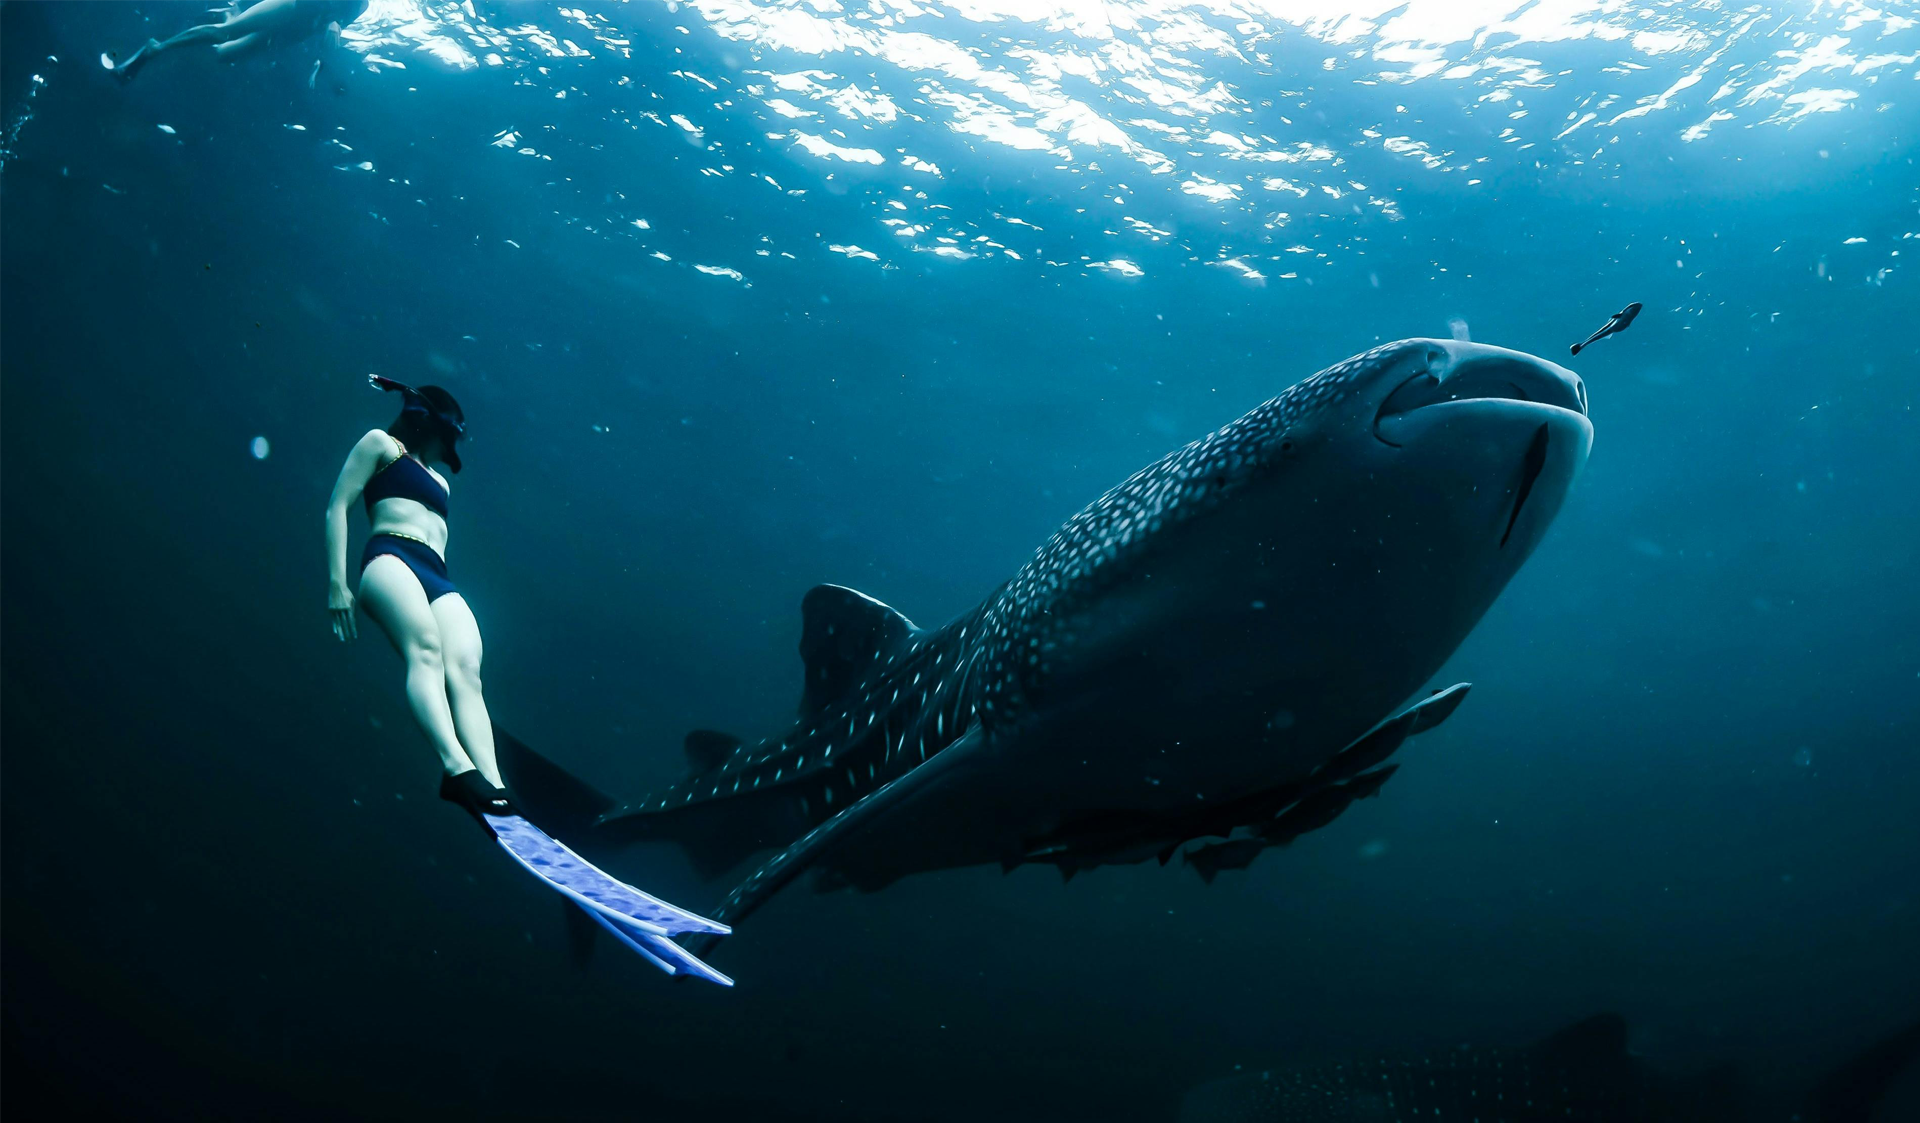
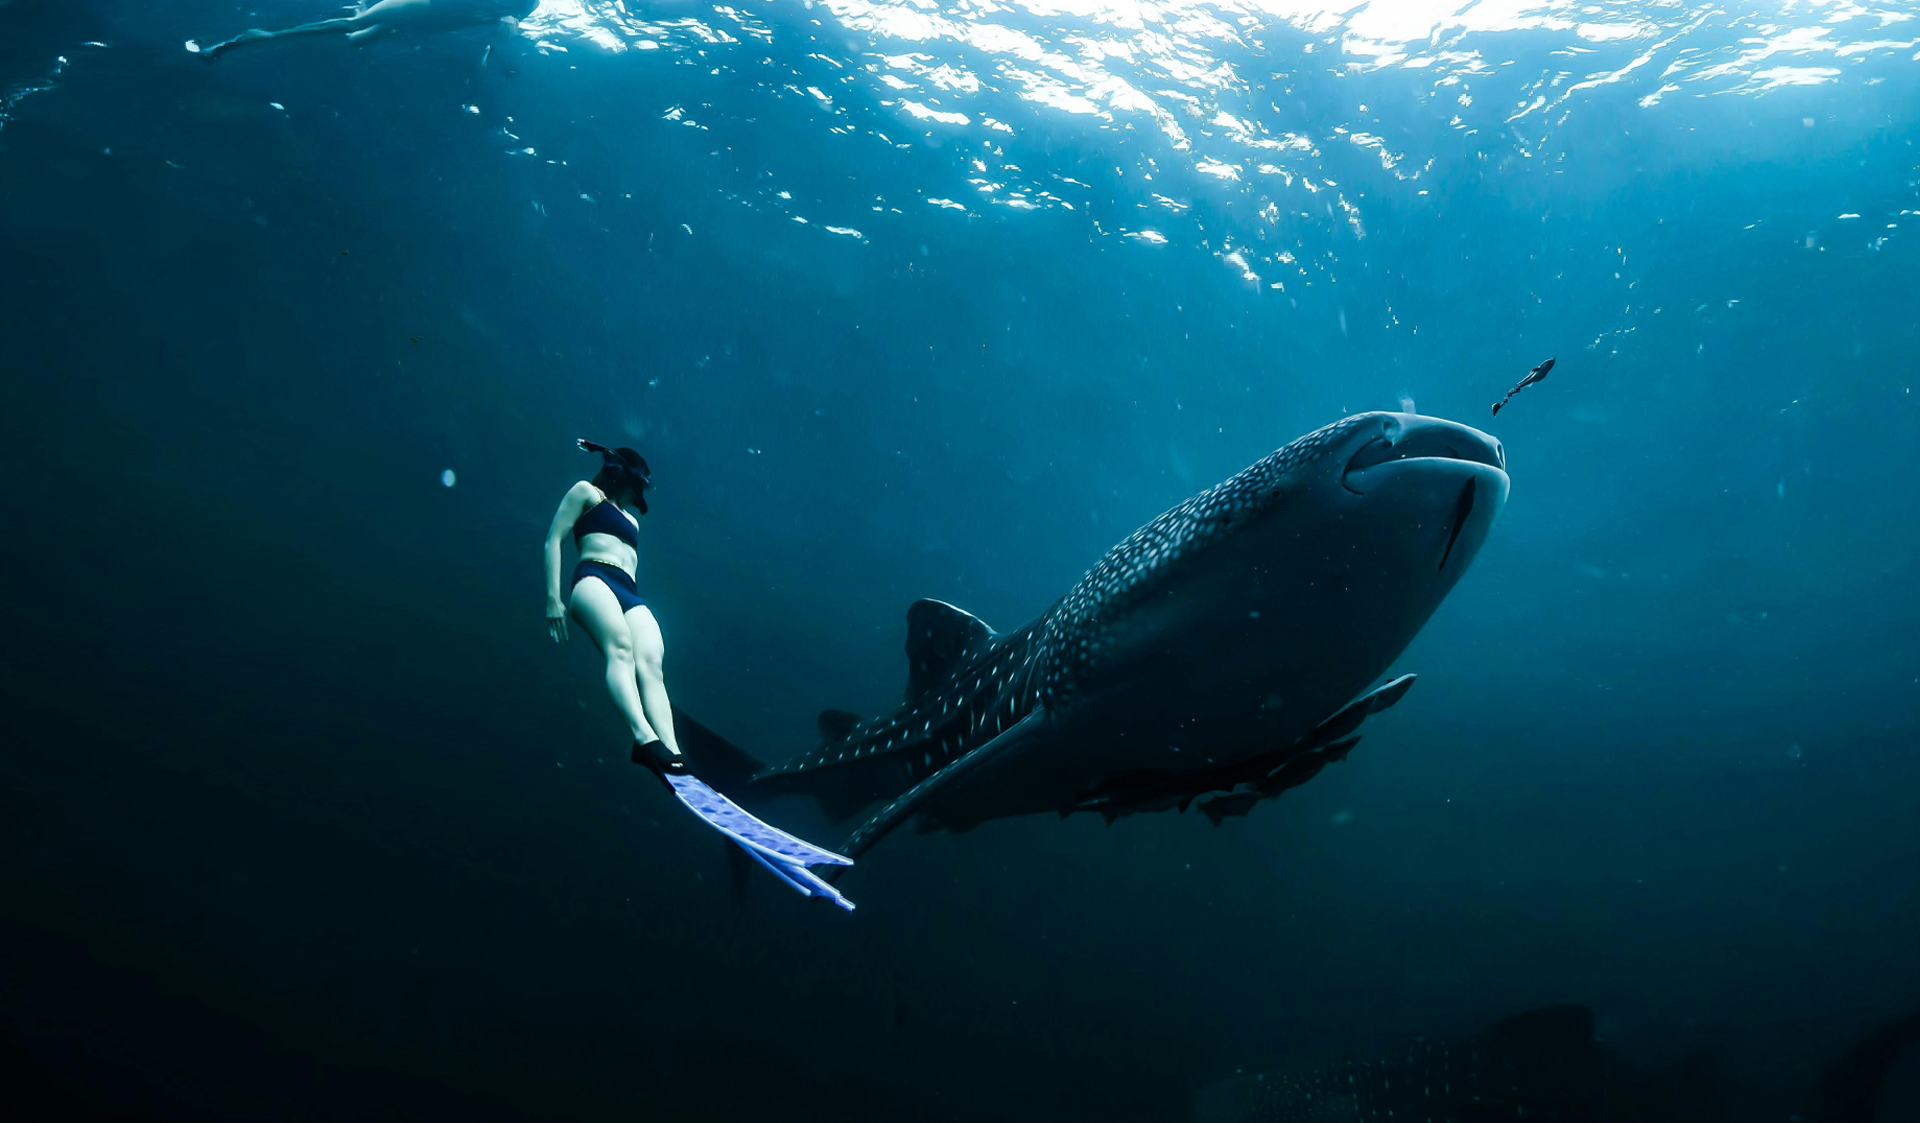
update sweeper text

Changed region(s): [[0.0312, 0.0, 1.0, 0.8727], [0.0, 0.0623, 0.0312, 0.1247], [0.125, 0.374, 0.1562, 0.4052]]

diff --git a/index.html b/index.html
@@ -52,7 +52,7 @@
           <a href="https://www.instagram.com/mirissawhalessnorkelingtours/" class="instagram m-2"><i class="bi bi-instagram fs-4"></i></a>
           <a href="https://www.youtube.com/channel/UCrC5vWt-2z2Yto08I_qDsAA" class="youtube m-2"><i class="bi bi-youtube fs-4"></i></a>
           <a href="https://www.tripadvisor.com/YourTripAdvisorLink" class="tripadvisor m-2">
-            <img src="https://upload.wikimedia.org/wikipedia/commons/1/1b/Tripadvisor_Logo_circle-green_vertical-lockup_registered_RGB.svg" 
+            <img src="assets/img/TripAdvicer.png" 
                  alt="TripAdvisor" 
                  style="width: 32px; height: 32px; display: block;">
         </a>
@@ -119,8 +119,8 @@
         <div class="carousel-item active">
           <img src="assets/img/hero-carousel/SnorkelingWithTurtles.png" alt="">
           <div class="carousel-container">
-            <h2><span>Delicious</span> Restaurant</h2>
-            <p>Lorem ipsum dolor sit amet, consectetur adipiscing elit, sed do eiusmod tempor incididunt ut labore et dolore magna aliqua. Ut enim ad minim veniam, quis nostrud exercitation ullamco laboris nisi ut aliquip ex ea commodo consequat.</p>
+            <h2>Snorkeling with Turtles</h2>
+            <p>Encounter the graceful green sea turtles of Mirissa, known for their calm nature and distinctive shells. These ancient creatures, growing up to 4 feet long, glide effortlessly through the water, offering a rare and unforgettable underwater experience.</p>
             <div>
               <a href="#contact" class="btn-get-started">Contact Us</a>
               <!-- <a href="#book-a-table" class="btn-get-started">Book a table</a> -->
@@ -131,8 +131,8 @@
         <div class="carousel-item">
           <img src="assets/img/hero-carousel/SnorkelingWithWhales.png" alt="">
           <div class="carousel-container">
-            <h2>At vero eos et accusamus</h2>
-            <p>Nam libero tempore, cum soluta nobis est eligendi optio cumque nihil impedit quo minus id quod maxime placeat facere possimus, omnis voluptas assumenda est, omnis dolor repellendus. Temporibus autem quibusdam et aut officiis debitis aut.</p>
+            <h2>Snorkeling with Whales</h2>
+            <p>Encounter the majestic whales of Mirissa as they glide through the deep blue. These gentle giants offer a breathtaking and unforgettable snorkeling experience, showcasing the power and beauty of nature up close.</p>
             <div>
               <a href="#contact" class="btn-get-started">Contact Us</a>
               <!-- <a href="#book-a-table" class="btn-get-started">Book a table</a> -->
@@ -141,10 +141,10 @@
         </div><!-- End Carousel Item -->
 
         <div class="carousel-item">
-          <img src="assets/img/hero-carousel/UnderWater.png" alt="">
+          <img src="assets/img/hero-carousel/whalescubadiving.png" alt="">
           <div class="carousel-container">
             <h2>Temporibus autem quibusdam</h2>
-            <p>Beatae vitae dicta sunt explicabo. Nemo enim ipsam voluptatem quia voluptas sit aspernatur aut odit aut fugit, sed quia consequuntur magni dolores eos qui ratione voluptatem sequi nesciunt omnis iste natus error sit voluptatem accusantium.</p>
+            <p>Explore the depths of Mirissa’s waters and encounter the majestic whales in their natural habitat. These gentle giants, known for their incredible size and serene presence, move gracefully through the ocean, providing a breathtaking and unforgettable diving experience.</p>
             <div>
               <a href="#contact" class="btn-get-started">Contact Us</a>
               <!-- <a href="#book-a-table" class="btn-get-started">Book a table</a> -->
